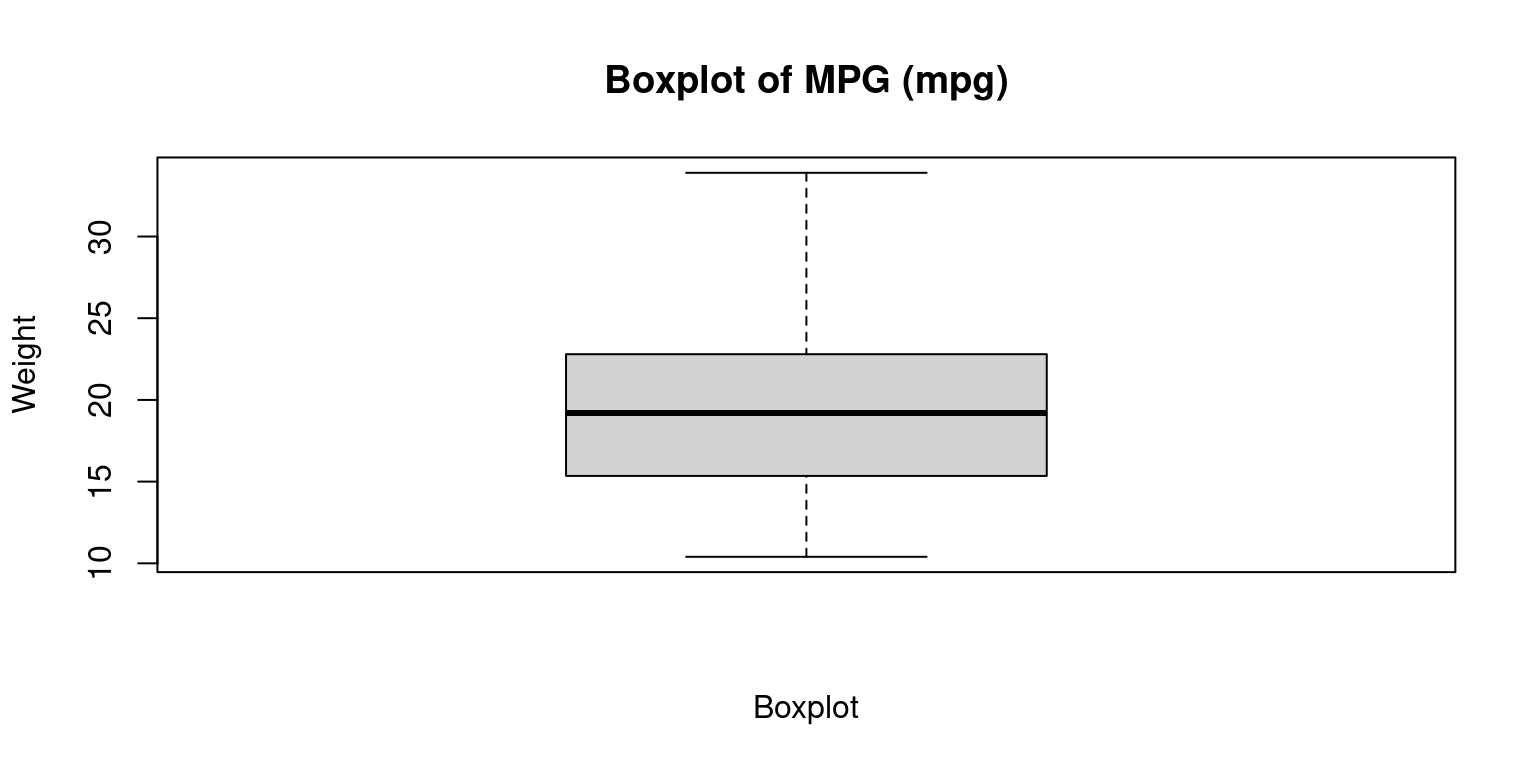
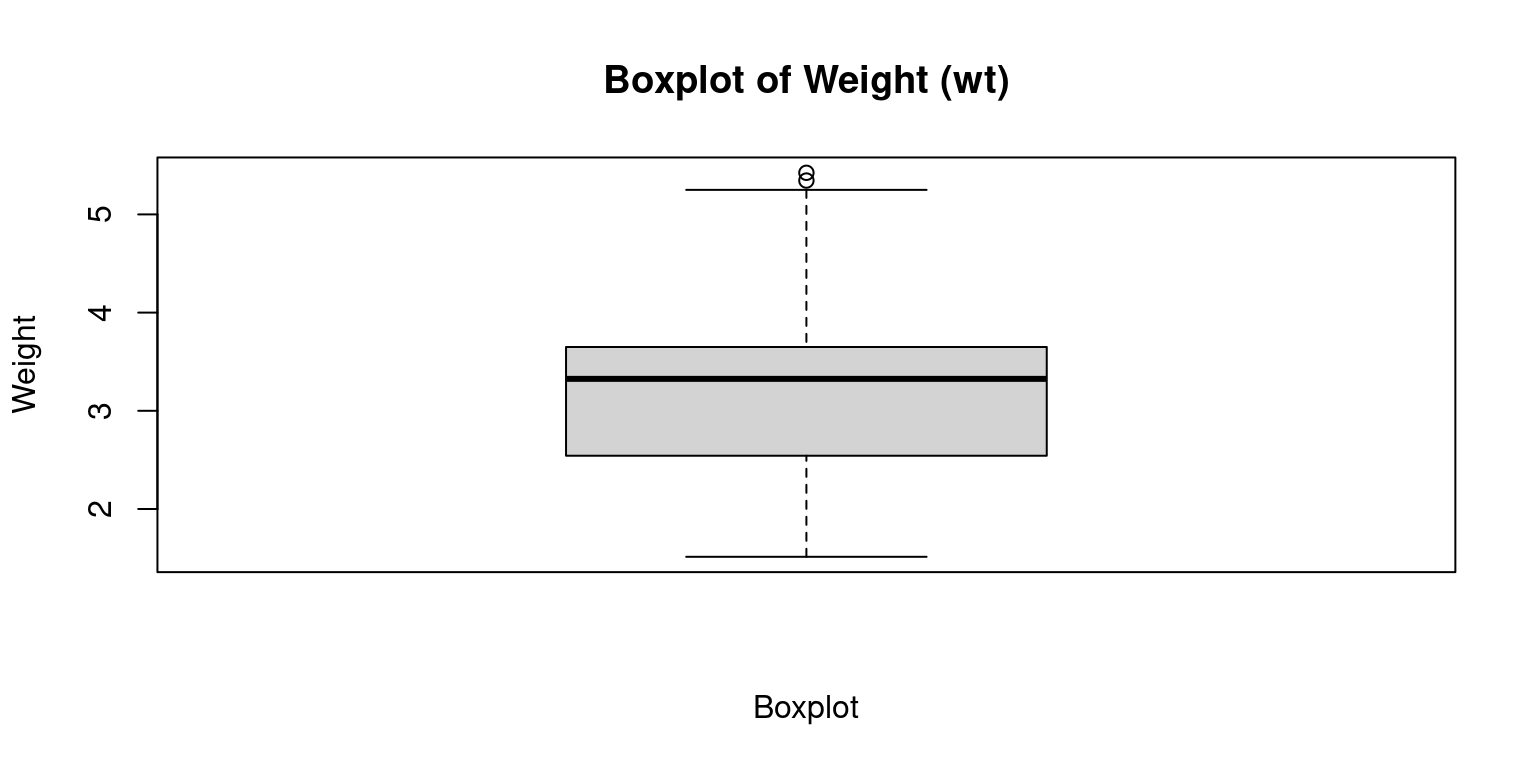
Modified chapter on Continuous data

diff --git a/docs/12ContinuousData01.html b/docs/12ContinuousData01.html
@@ -735,13 +735,13 @@ carb      1.26  0.29</code></pre>
 <h3 class="anchored" data-anchor-id="boxplot">Boxplot</h3>
 <ol type="1">
 <li><p>Box-and-whisker plots, commonly known as box plots, are crucial graphical instruments for illustrating a distribution’s center, spread, and potential outliers [5].</p></li>
-<li><p>Here is sample code to generate a boxplot of <code>mpg</code> (miles per gallon) values of the cars .</p></li>
+<li><p>Here is sample code to generate a boxplot of <code>wt</code> (Weight) of the cars .</p></li>
 </ol>
 <div class="cell">
-<div class="sourceCode cell-code" id="cb44"><pre class="sourceCode r code-with-copy"><code class="sourceCode r"><span id="cb44-1"><a href="#cb44-1" aria-hidden="true" tabindex="-1"></a><span class="fu">boxplot</span>(tb<span class="sc">$</span>mpg, </span>
+<div class="sourceCode cell-code" id="cb44"><pre class="sourceCode r code-with-copy"><code class="sourceCode r"><span id="cb44-1"><a href="#cb44-1" aria-hidden="true" tabindex="-1"></a><span class="fu">boxplot</span>(tb<span class="sc">$</span>wt, </span>
 <span id="cb44-2"><a href="#cb44-2" aria-hidden="true" tabindex="-1"></a>        <span class="at">xlab =</span> <span class="st">"Boxplot"</span>,</span>
 <span id="cb44-3"><a href="#cb44-3" aria-hidden="true" tabindex="-1"></a>        <span class="at">ylab =</span> <span class="st">"Weight"</span>,</span>
-<span id="cb44-4"><a href="#cb44-4" aria-hidden="true" tabindex="-1"></a>        <span class="at">main =</span> <span class="st">"Boxplot of MPG (mpg)"</span></span>
+<span id="cb44-4"><a href="#cb44-4" aria-hidden="true" tabindex="-1"></a>        <span class="at">main =</span> <span class="st">"Boxplot of Weight (wt)"</span></span>
 <span id="cb44-5"><a href="#cb44-5" aria-hidden="true" tabindex="-1"></a>       )</span></code><button title="Copy to Clipboard" class="code-copy-button"><i class="bi"></i></button></pre></div>
 <div class="cell-output-display">
 <p><img src="12ContinuousData01_files/figure-html/unnamed-chunk-22-1.png" class="img-fluid" width="768"></p>
@@ -764,9 +764,9 @@ carb      1.26  0.29</code></pre>
 <div class="sourceCode cell-code" id="cb45"><pre class="sourceCode r code-with-copy"><code class="sourceCode r"><span id="cb45-1"><a href="#cb45-1" aria-hidden="true" tabindex="-1"></a><span class="co"># Load the beeswarm package</span></span>
 <span id="cb45-2"><a href="#cb45-2" aria-hidden="true" tabindex="-1"></a><span class="fu">library</span>(beeswarm)</span>
 <span id="cb45-3"><a href="#cb45-3" aria-hidden="true" tabindex="-1"></a></span>
-<span id="cb45-4"><a href="#cb45-4" aria-hidden="true" tabindex="-1"></a><span class="co"># Create a bee swarm plot of mpg column</span></span>
-<span id="cb45-5"><a href="#cb45-5" aria-hidden="true" tabindex="-1"></a><span class="fu">beeswarm</span>(tb<span class="sc">$</span>mpg, </span>
-<span id="cb45-6"><a href="#cb45-6" aria-hidden="true" tabindex="-1"></a>         <span class="at">main=</span><span class="st">"Bee Swarm Plot of mpg"</span>, </span>
+<span id="cb45-4"><a href="#cb45-4" aria-hidden="true" tabindex="-1"></a><span class="co"># Create a bee swarm plot of wt column</span></span>
+<span id="cb45-5"><a href="#cb45-5" aria-hidden="true" tabindex="-1"></a><span class="fu">beeswarm</span>(tb<span class="sc">$</span>wt, </span>
+<span id="cb45-6"><a href="#cb45-6" aria-hidden="true" tabindex="-1"></a>         <span class="at">main=</span><span class="st">"Bee Swarm Plot of Weight (wt)"</span>, </span>
 <span id="cb45-7"><a href="#cb45-7" aria-hidden="true" tabindex="-1"></a>         <span class="at">pch=</span><span class="dv">16</span>, </span>
 <span id="cb45-8"><a href="#cb45-8" aria-hidden="true" tabindex="-1"></a>         <span class="at">cex=</span><span class="fl">1.2</span>, </span>
 <span id="cb45-9"><a href="#cb45-9" aria-hidden="true" tabindex="-1"></a>         <span class="at">col=</span><span class="st">"blue"</span>)</span></code><button title="Copy to Clipboard" class="code-copy-button"><i class="bi"></i></button></pre></div>
@@ -776,11 +776,11 @@ carb      1.26  0.29</code></pre>
 </div>
 <ul>
 <li><p>In the above code, we load the <code>beeswarm</code> package using the <code>library()</code> function.</p></li>
-<li><p>We then create a bee swarm plot of the <code>mpg</code> column using the <code>beeswarm()</code> function.</p></li>
+<li><p>We then create a bee swarm plot of the <code>wt</code> column using the <code>beeswarm()</code> function.</p></li>
 <li><p>The <code>main</code> argument is used to specify the title of the plot.</p></li>
 <li><p>The <code>pch</code> argument is used to set the type of points to be plotted, and the <code>cex</code> argument is used to set the size of the points.</p></li>
 <li><p>The <code>col</code> argument is used to set the color of the points.</p></li>
-<li><p>The resulting plot will display the individual <code>mpg</code> values in the dataset as points on a horizontal axis, with no overlap between points. This provides a visual representation of the distribution of the data, as well as any outliers or gaps in the data.</p></li>
+<li><p>The resulting plot will display the individual <code>wt</code> values in the dataset as points on a horizontal axis, with no overlap between points. This provides a visual representation of the distribution of the data, as well as any outliers or gaps in the data.</p></li>
 </ul>
 </section>
 <section id="violin-plot" class="level3">
@@ -811,17 +811,17 @@ Attaching package: 'zoo'</code></pre>
 
     as.Date, as.Date.numeric</code></pre>
 </div>
-<div class="sourceCode cell-code" id="cb52"><pre class="sourceCode r code-with-copy"><code class="sourceCode r"><span id="cb52-1"><a href="#cb52-1" aria-hidden="true" tabindex="-1"></a><span class="co"># Constructing a violin plot for the mpg column</span></span>
-<span id="cb52-2"><a href="#cb52-2" aria-hidden="true" tabindex="-1"></a><span class="fu">vioplot</span>(tb<span class="sc">$</span>mpg, </span>
-<span id="cb52-3"><a href="#cb52-3" aria-hidden="true" tabindex="-1"></a>        <span class="at">main=</span><span class="st">"Violin Plot of MPG"</span>, </span>
-<span id="cb52-4"><a href="#cb52-4" aria-hidden="true" tabindex="-1"></a>        <span class="at">ylab=</span><span class="st">"Miles per gallon"</span>)</span></code><button title="Copy to Clipboard" class="code-copy-button"><i class="bi"></i></button></pre></div>
+<div class="sourceCode cell-code" id="cb52"><pre class="sourceCode r code-with-copy"><code class="sourceCode r"><span id="cb52-1"><a href="#cb52-1" aria-hidden="true" tabindex="-1"></a><span class="co"># Constructing a violin plot for the wt</span></span>
+<span id="cb52-2"><a href="#cb52-2" aria-hidden="true" tabindex="-1"></a><span class="fu">vioplot</span>(tb<span class="sc">$</span>wt, </span>
+<span id="cb52-3"><a href="#cb52-3" aria-hidden="true" tabindex="-1"></a>        <span class="at">main=</span><span class="st">"Violin Plot of Weight (wt)"</span>, </span>
+<span id="cb52-4"><a href="#cb52-4" aria-hidden="true" tabindex="-1"></a>        <span class="at">ylab=</span><span class="st">"Weight"</span>)</span></code><button title="Copy to Clipboard" class="code-copy-button"><i class="bi"></i></button></pre></div>
 <div class="cell-output-display">
 <p><img src="12ContinuousData01_files/figure-html/unnamed-chunk-24-1.png" class="img-fluid" width="768"></p>
 </div>
 </div>
 <ul>
 <li><p>In this code, the <code>vioplot()</code> function crafts a violin plot for the mpg variable. We use the <code>main</code> argument to assign the plot’s title and the <code>ylab</code> argument to designate the label for the y-axis.</p></li>
-<li><p>The resulting plot unveils the entire <code>mpg</code> data distribution, with a kernel density estimate indicating the concentration of data points at different sections.</p></li>
+<li><p>The resulting plot unveils the entire <code>wt</code> data distribution, with a kernel density estimate indicating the concentration of data points at different sections.</p></li>
 <li><p>Lastly, the plot incorporates the median, quartiles, and any outliers present in the data.</p></li>
 </ul>
 </section>
